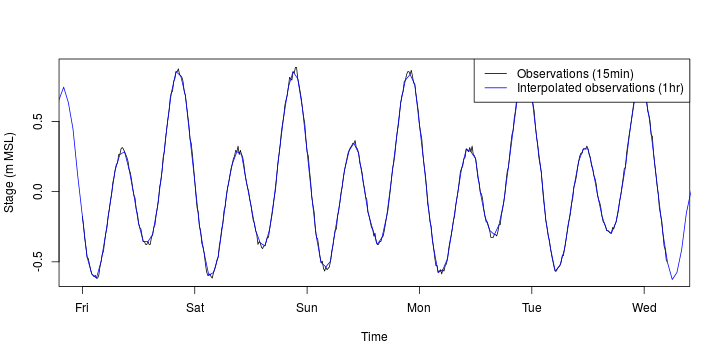
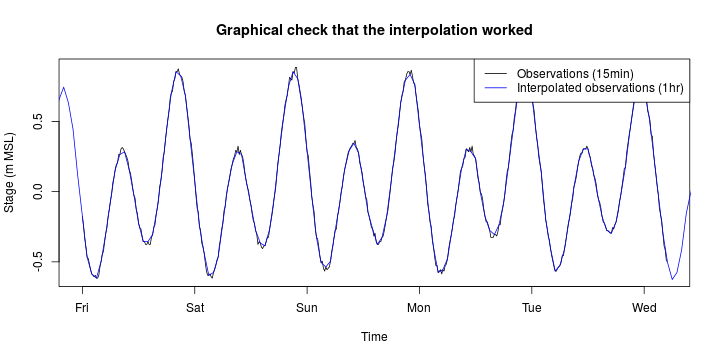
updates

Changed region(s): [[0.3056, 0.0611, 0.7639, 0.1222]]

diff --git a/Analysis/preprocessing/preprocess_data.md b/Analysis/preprocessing/preprocess_data.md
@@ -614,7 +614,7 @@ wd$full_data = full_data
 
 # Check it -- overplot the interpolated and original tidal data, to see that they agree
 plot(tidal_obs$time[inds[1:500]], tidal_obs$tide[inds[1:500]] - mean_tidal_obs, t='l',
-    xlab='Time', ylab='Stage (m MSL)')
+    xlab='Time', ylab='Stage (m MSL)', main='Graphical check that the interpolation worked')
 points(full_data$time, full_data$tide, t='l', col='blue')
 legend('topright', c('Observations (15min)', 'Interpolated observations (1hr)'), 
     col=c('black', 'blue'), lty=c(1,1), bg='white')
